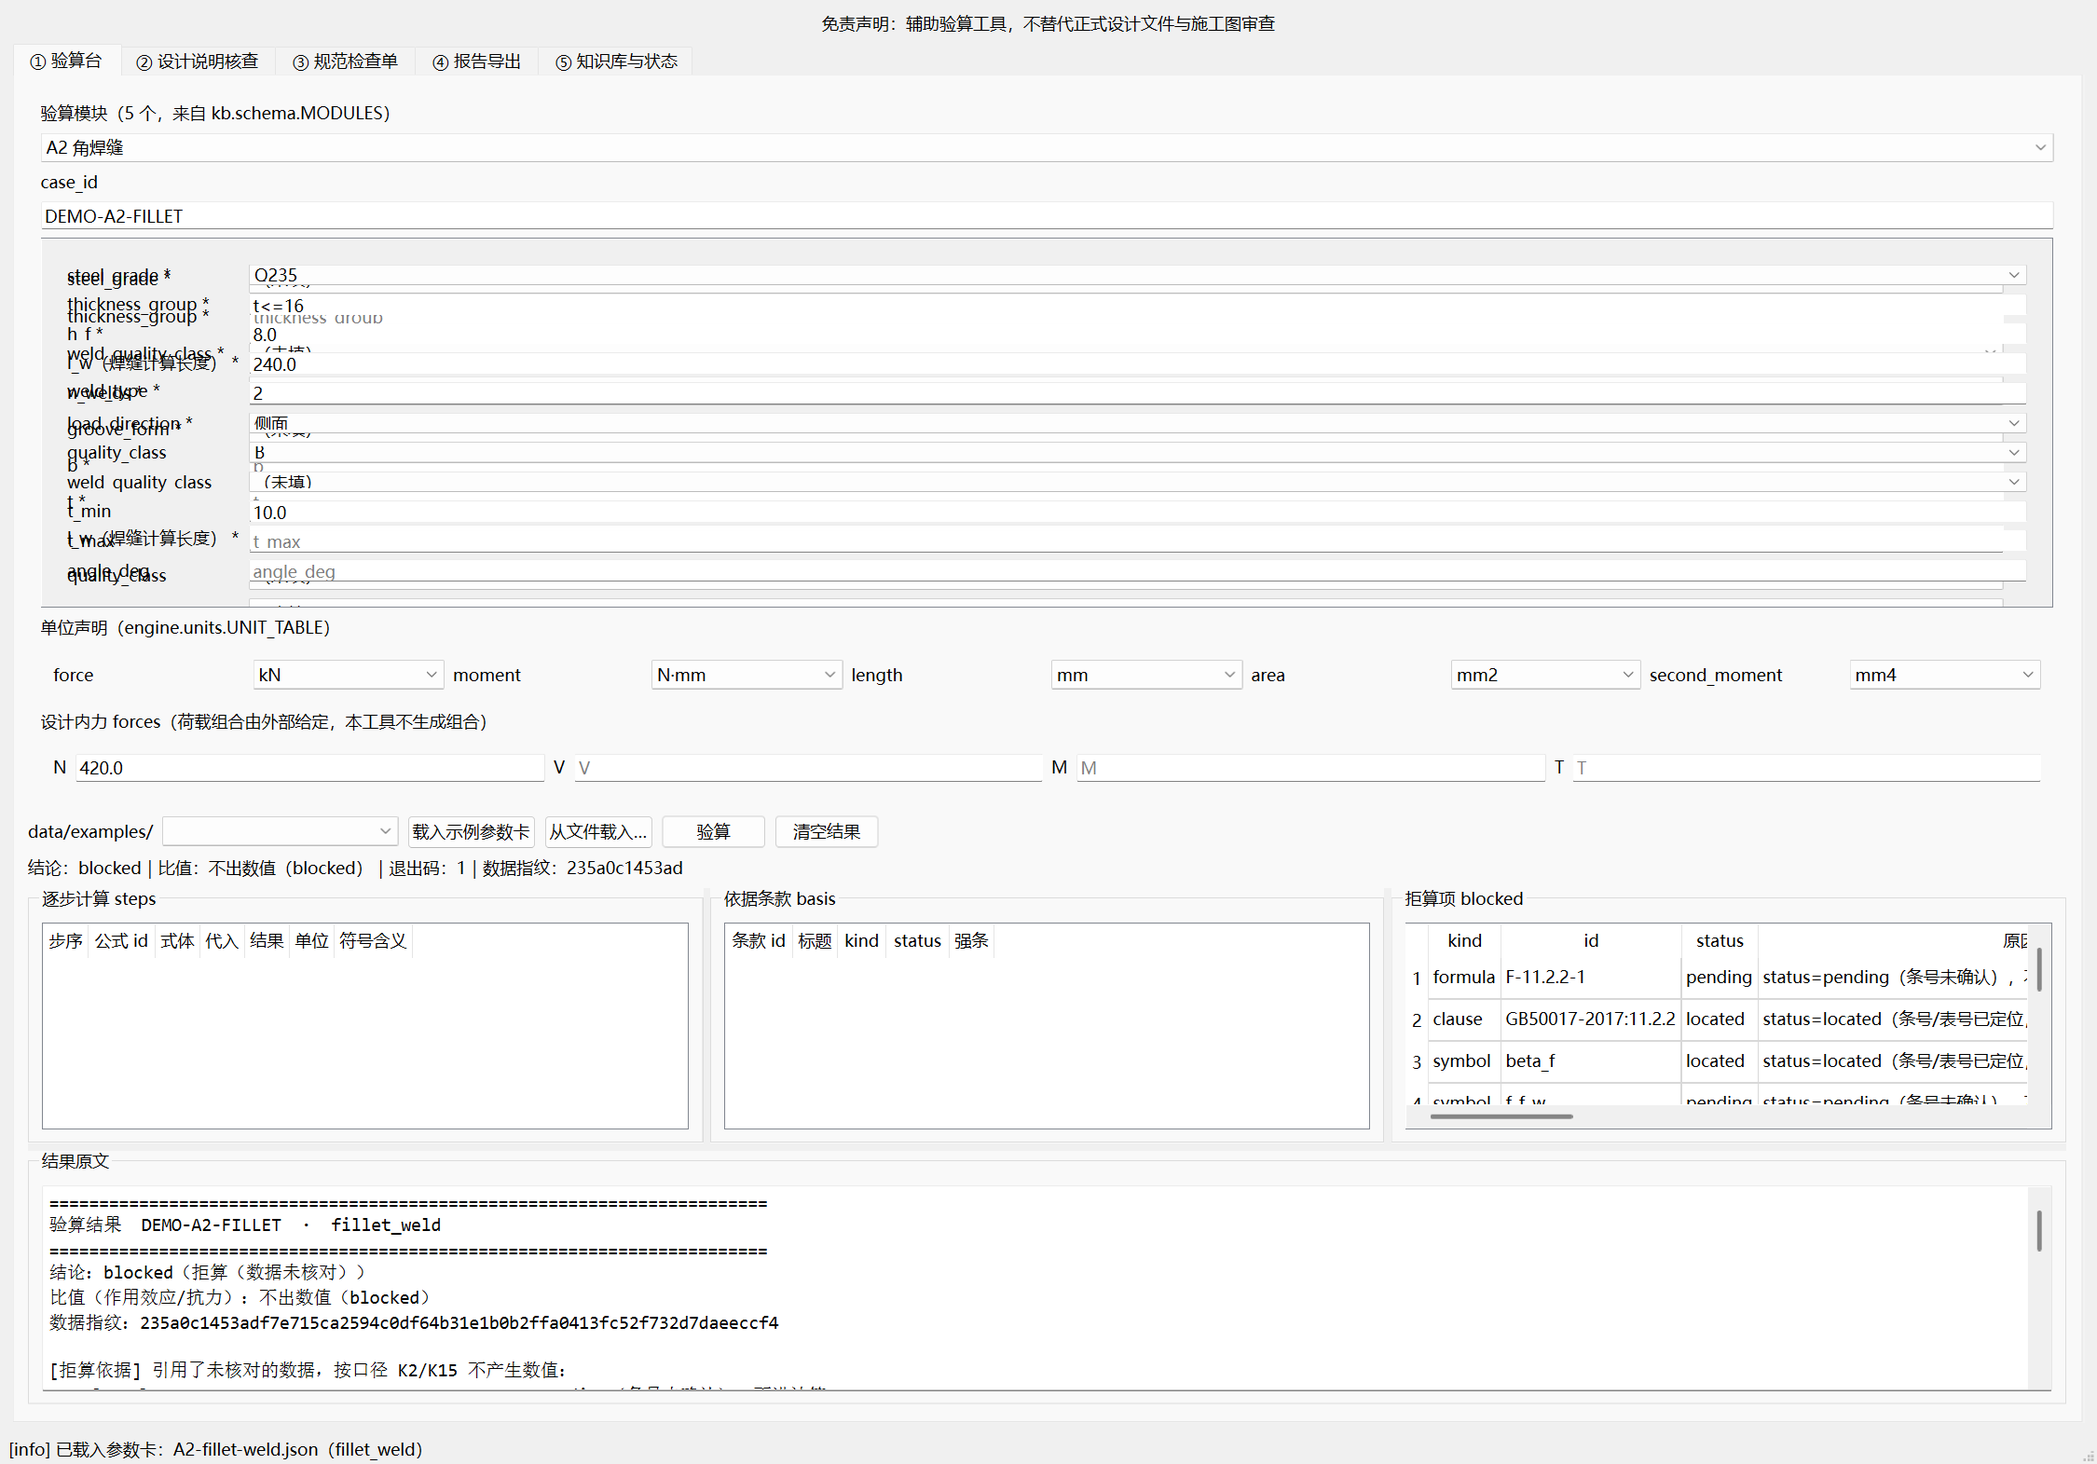
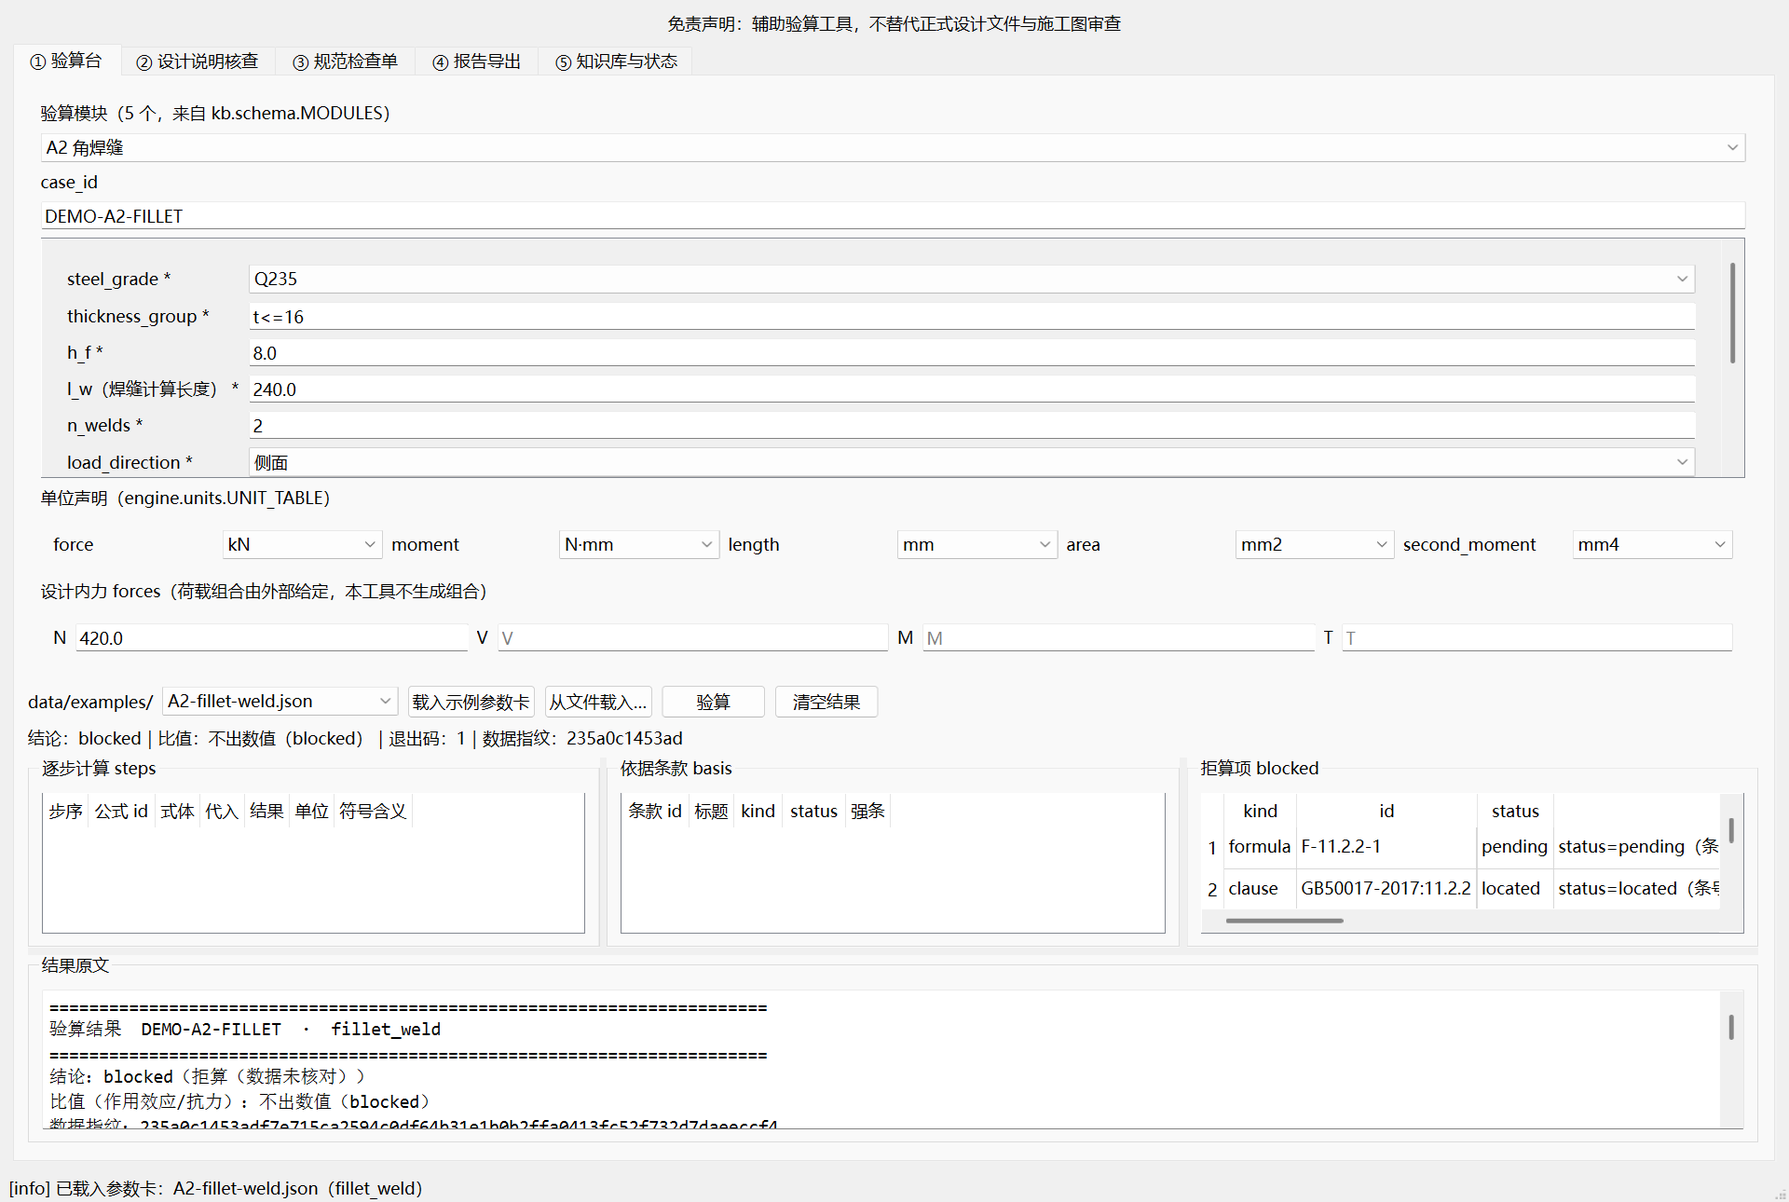
feat: 报告头写入依据规范 + 规则集 meta.review + CHANGELOG + GUI 抓帧时序修复（阶段三 任务 3/5，P1-1）
- src/sdc/report/body.py: 报告头新增 STANDARDS_LINE（依据规范 + 本次/下次复核日）；不写生成时间（K42）
- data/review/ruleset-review.json: 规则集复核元数据（standards + 每个知识文件的依据与依赖面 + declared_not_used）
- tests/test_clause_review.py: 6 用例守门（含负控已验证会报红），进 CI
- scripts/bundle_rules.py: data/review/ 明确不入包（含渠道 URL，K40/K42）
- src/sdc/gui/app.py: 新增 drain_events()，抓帧前多轮 processEvents + 冲刷 DeferredDelete —— 修 gui-verify-blocked.png 标签重影（P1-1），已重抓
- 新增 CHANGELOG.md；README 判定依据表补本次/下次复核与是否现行列、测试模块计数 25→26
- pyproject: 增加 Changelog URL 与 classifiers

diff --git a/tests/test_clause_review.py b/tests/test_clause_review.py
@@ -1,0 +1,129 @@
+"""规则集复核元数据守门（阶段三 任务 5）。
+
+字段规范 = ``10-6-scaffold-formwork-checker`` v2.0.0 的实测形态（``meta.review``：
+``reviewed_on`` / ``cycle_months`` / ``next_review_due`` / ``reviewer`` / ``standards[]``）。
+
+**本仓的落位差异（已登记）**：`data/<kind>/*.json` 是顶层 JSON **数组**，无法在同一文件里再承载
+文件级 ``meta.review``；因此复核元数据落在 ``data/review/ruleset-review.json``（loader 只扫
+``data/<kind>/`` 目录，不读这里，因此零判定影响），并在其中用 ``covered_files`` 覆盖每个知识文件。
+README「判定依据」表与报告头 ``STANDARDS_LINE`` 与之三处一致。
+
+6 个用例（scaffold 5 条 + 1 条报告头）：
+
+1. 元数据齐全；
+2. 日期可解析且 ``next_review_due > reviewed_on``，``cycle_months`` 与跨度相符；
+3. 每部标准 ``authority_url`` 非空且为 URL；
+4. 清单类一致性：``covered_files`` 覆盖全部知识文件，且每条引用的标准都在 ``standards`` 里；
+5. 「本版本不依赖」声明：``declared_not_used`` 每项必须有非空 ``not_used_by``，
+   且 ``used_by`` / ``not_used_by`` 里的模块都真实存在（依赖面吻合）；
+6. 报告头可见依据版本与引擎版本（任务 5 验收第 1 项），且不含 URL / 生成时间。
+
+任一判据被破坏必须报红 —— 负控记录见 plan/audits 的阶段三交接文档。
+"""
+
+import datetime
+import json
+from pathlib import Path
+
+import pytest
+
+REPO_ROOT = Path(__file__).resolve().parents[1]
+REVIEW_PATH = REPO_ROOT / "data" / "review" / "ruleset-review.json"
+KNOWLEDGE_DIRS = ("clauses", "tables", "formulas", "symbols", "rules", "checklist")
+REQUIRED_REVIEW_KEYS = ("reviewed_on", "cycle_months", "next_review_due", "reviewer",
+                        "standards", "covered_files", "declared_not_used")
+REQUIRED_STANDARD_KEYS = ("standard", "issued", "effective", "currency",
+                          "authority_url", "conclusion")
+
+
+def _review():
+    payload = json.loads(REVIEW_PATH.read_text(encoding="utf-8"))
+    return payload["meta"]["review"]
+
+
+def _date(text):
+    return datetime.datetime.strptime(text, "%Y-%m-%d").date()
+
+
+def _module_exists(dotted):
+    rel = dotted.replace(".", "/")
+    return any((REPO_ROOT / "src" / (rel + suffix)).exists()
+               for suffix in (".py", "/__init__.py"))
+
+
+def _knowledge_files():
+    found = []
+    for kind in KNOWLEDGE_DIRS:
+        for path in sorted((REPO_ROOT / "data" / kind).glob("*.json")):
+            found.append("%s/%s" % (kind, path.name))
+    return found
+
+
+def test_review_metadata_is_complete():
+    review = _review()
+    for key in REQUIRED_REVIEW_KEYS:
+        assert review.get(key) not in (None, "", [], {}), "meta.review 缺字段：%s" % key
+    assert isinstance(review["cycle_months"], int) and review["cycle_months"] > 0
+
+
+def test_review_dates_are_parsable_and_next_due_is_after_reviewed_on():
+    review = _review()
+    reviewed = _date(review["reviewed_on"])
+    due = _date(review["next_review_due"])
+    assert due > reviewed
+    months = (due.year - reviewed.year) * 12 + (due.month - reviewed.month)
+    assert abs(months - review["cycle_months"]) <= 1
+
+
+def test_every_standard_carries_authority_url():
+    for item in _review()["standards"]:
+        for key in REQUIRED_STANDARD_KEYS:
+            assert str(item.get(key) or "").strip(), (
+                "标准 %r 缺 %s" % (item.get("standard"), key))
+        for part in str(item["authority_url"]).split(";"):
+            if part.strip():
+                assert part.strip().startswith("http")
+
+
+def test_covered_files_match_the_knowledge_tree():
+    review = _review()
+    declared = set(review["covered_files"])
+    actual = set(_knowledge_files())
+    assert declared == actual, (
+        "covered_files 与 data/ 实际知识文件不一致：缺 %s / 多 %s"
+        % (sorted(actual - declared), sorted(declared - actual)))
+    known = {item["standard"] for item in review["standards"]}
+    for name, entry in review["covered_files"].items():
+        assert entry.get("standard"), "%s 未声明标准" % name
+        unknown = set(entry["standard"]) - known
+        assert not unknown, "%s 引用了未登记的标准：%s" % (name, sorted(unknown))
+
+
+def test_unused_declarations_and_real_modules():
+    review = _review()
+    for name, entry in review["covered_files"].items():
+        used_by = list(entry.get("used_by") or [])
+        not_used_by = list(entry.get("not_used_by") or [])
+        assert used_by or not_used_by, (
+            "%s 既没声明 used_by 也没声明 not_used_by" % name)
+        for module in used_by + not_used_by:
+            assert _module_exists(module), "%s 声明的模块不存在：%s" % (name, module)
+    assert review["declared_not_used"], "至少要有「本版本不依赖」的显式声明"
+    for item in review["declared_not_used"]:
+        assert item.get("not_used_by"), item.get("item")
+        for module in item["not_used_by"]:
+            assert _module_exists(module), "not_used_by 指向不存在的模块：%s" % module
+
+
+def test_report_header_shows_standards_and_engine_version():
+    from sdc import __version__
+    from sdc.report.body import STANDARDS_LINE, _header
+
+    head = "\n".join(_header("标题", "report", ["参数卡：x.json"]))
+    assert "引擎版本：%s" % __version__ in head
+    assert "依据规范" in head
+    for standard in ("GB 50017-2017", "GB 55006-2021", "JGJ 82-2011"):
+        assert standard in head
+    assert STANDARDS_LINE in head
+    # 交付物硬约束：不写 URL（0 外链）、不写生成时间（K42 无身份信息 + 逐字节一致）
+    assert "http" not in head and "生成时间" not in head

diff --git a/src/sdc/gui/app.py b/src/sdc/gui/app.py
@@ -85,11 +85,27 @@ def run(data_dir: Optional[str] = None, argv: Optional[Sequence[str]] = None) ->
     return int(app.exec())
 
 
+def drain_events(app, rounds: int = 3) -> None:
+    """多轮事件循环 + 显式冲刷 DeferredDelete（抓帧前必须调）。
+
+    实测缺陷（阶段二 P1-1）：只调一次 ``processEvents()`` 就 ``grab()`` 会抓到**标签重影**——
+    ``page_verify._rebuild()`` 用 ``deleteLater()`` 清旧控件，而 ``DeferredDelete`` 事件
+    要等事件循环才真正删除，一次 ``processEvents()`` 来不及，旧标签仍被绘制。
+    这里既跑多轮，也显式 ``sendPostedEvents(None, DeferredDelete)``，两处一起才稳。
+    """
+    from PySide6.QtCore import QCoreApplication, QEvent
+
+    for _ in range(rounds):
+        app.processEvents()
+        QCoreApplication.sendPostedEvents(None, QEvent.DeferredDelete)
+
+
 def capture(data_dir: Optional[str], out_path: str) -> int:
     """截一张主窗口帧（DoD 里的可演示物）。
 
     两个实测坑：offscreen 平台拿不到中文字体，抓帧要在 native QPA 上跑；
     `QPixmap.save(BytesIO)` 在 PySide6 6.6 不可用，所以存进 QBuffer 再落盘。
+    第三个坑见 :func:`drain_events`：抓帧前必须把挂起的事件（尤其 ``deleteLater()``）跑完。
     """
     from PySide6.QtCore import QBuffer, QIODevice
 
@@ -101,7 +117,7 @@ def capture(data_dir: Optional[str], out_path: str) -> int:
     app = QApplication.instance() or QApplication([])
     window = build_main_window(resolved)
     window.show()
-    app.processEvents()
+    drain_events(app)
     buffer = QBuffer()
     buffer.open(QIODevice.ReadWrite)
     window.grab().save(buffer, "PNG")

diff --git a/src/sdc/report/body.py b/src/sdc/report/body.py
@@ -20,6 +20,13 @@ TITLE_RESULT = "钢结构连接与构件验算书"
 TITLE_CHECK = "设计说明文本核查清单"
 TITLE_CHECKLIST = "GB 55006-2021 符合性检查单"
 
+# 报告头：依据版本（阶段三 任务 5）。文号/实施日期与 README「判定依据」表、
+# data/review/ruleset-review.json 的 meta.review 三处一致，由 tests/test_clause_review.py 守门。
+# 刻意不写「生成时间」：本仓交付物要求无身份信息 + 两次导出逐字节一致（K42）。
+STANDARDS_LINE = ("依据规范：GB 50017-2017（2018-07-01 实施）、"
+                  "GB 55006-2021（2022-01-01 实施）、JGJ 82-2011（2011-10-01 实施）；"
+                  "本次复核 2026-10-19，下次复核 2027-10-19")
+
 
 def _name(path: str) -> str:
     """只留文件名：绝对路径里带机器名与用户名，不进交付物（口径 K42）。"""
@@ -28,7 +35,7 @@ def _name(path: str) -> str:
 
 
 def _header(title: str, tool: str, extra: List[str]) -> List[str]:
-    out = [title, "导出命令：sdc %s；引擎版本：%s" % (tool, __version__)]
+    out = [title, "导出命令：sdc %s；引擎版本：%s" % (tool, __version__), STANDARDS_LINE]
     out.extend(line for line in extra if line)
     out.append("")
     return out

diff --git a/scripts/bundle_rules.py b/scripts/bundle_rules.py
@@ -24,7 +24,9 @@ DATA_SUBDIRS = ("clauses", "tables", "formulas", "symbols", "rules", "checklist"
                 "selfcheck", "examples", "synth")
 
 # 明确不入包的 data 成员
-DATA_EXCLUDED = ("README.md", "cases")
+# - `review/`：阶段三 任务 5 的规则集复核元数据（人审与守门用），不是运行必需数据，
+#   且内含权威渠道 URL —— 按 K40/K42 不进交付物。
+DATA_EXCLUDED = ("README.md", "cases", "review")
 
 # 任何深度都不得出现的路径成分（本项目自己的取证/计划/会话产物与本地环境目录）
 FORBIDDEN_ANYWHERE = (".git", ".tmp_verify", ".tmp_parse", ".venv", "venv", "plan",

diff --git a/README.md b/README.md
@@ -66,14 +66,17 @@ py -3.8 -X utf8 -m sdc run --module fillet_weld --case data/examples/A2-fillet-w
 
 ## 判定依据
 
-| 依据 | 版本 | 生效日期 | 最后复核 |
-| --- | --- | --- | --- |
-| GB 50017-2017《钢结构设计标准》 | 2017 版（替代 GB 50017-2003） | 2018-07-01 实施 | 2026-10-07 |
-| GB 55006-2021《钢结构通用规范》（全文强制） | 2021 版 | 2022-01-01 实施 | 2026-10-07 |
-| JGJ 82-2011《钢结构高强度螺栓连接技术规程》 | 2011 版（替代 JGJ 82-91） | 2011-10-01 实施 | 2026-10-07 |
-| 条款库 `data/clauses/`（GB50017 35 条 + GB55006 107 条 + JGJ82 19 条，三档 status） | 数据指纹 `235a0c14…` | 2026-10-06/07 入库 | 2026-10-07 |
-| 引擎与打包口径 K1–K46（唯一一份，见 [plan/06-决策记录.md](plan/06-决策记录.md)） | `v0.1.0` | 2026-10-07 | 2026-10-07 |
+| 依据 | 版本 | 生效日期 | 本次复核（下次复核） | 是否现行 |
+| --- | --- | --- | --- | --- |
+| GB 50017-2017《钢结构设计标准》 | 2017 版（替代 GB 50017-2003） | 2018-07-01 实施 | **2026-10-19（2027-10-19）** | 现行；4.3.2 等强条自 2022-01-01 起废止，本库引用的第 11/7 章计算条文不在其内 |
+| GB 55006-2021《钢结构通用规范》（全文强制） | 2021 版 | 2022-01-01 实施 | **2026-10-19（2027-10-19）** | 现行；住建部公告 2021 年第 69 号已直连核实 |
+| JGJ 82-2011《钢结构高强度螺栓连接技术规程》 | 2011 版（替代 JGJ 82-91） | 2011-10-01 实施 | **2026-10-19（2027-10-19）** | 现行；6 条强条已随 GB 55006-2021 废止（公告附件第 15 项） |
+| 条款库 `data/clauses/`（GB50017 35 条 + GB55006 107 条 + JGJ82 19 条，三档 status） | 数据指纹 `235a0c14…` | 2026-10-06/07 入库 | 2026-10-07 | — |
+| 引擎与打包口径 K1–K46（唯一一份，见 [plan/06-决策记录.md](plan/06-决策记录.md)） | `v0.1.0` | 2026-10-07 | 2026-10-07 | — |
 
+复核结论与权威出处以 [data/review/ruleset-review.json](data/review/ruleset-review.json) 的
+`meta.review` 为准（每个知识文件的依据与依赖面逐条登记），由 `tests/test_clause_review.py` 守门；
+报告头写入同一批依据（`STANDARDS_LINE`），**不写生成时间**（K42：无身份信息 + 两次导出逐字节一致）。
 条款库只登记「标准号 + 条号 + 要点转述 + 出处」，**不整条转载规范正文**（版权纪律）。
 用编造来源换取绿灯，是本项目明确不做的事。
 
@@ -86,7 +89,7 @@ py -3.8 -X utf8 -m sdc run --module fillet_weld --case data/examples/A2-fillet-w
   `sdc bench` 显式输出「分母 0，样本待补」，不虚报达标。
 - **10 条核查规则的依据条款全部 `located`**：可硬判 `abnormal` 的规则分母为 0。
 - **不做**行业标准 / 地方标准 / 国外规范；不做荷载组合生成与自动出图。
-- 仓库有 25 个测试模块（schema / 门控 / 引擎 / 解析 / 核查 / 基准 / 报告 / 界面契约 / 打包与守门 /
+- 仓库有 26 个测试模块（schema / 门控 / 引擎 / 解析 / 核查 / 基准 / 报告 / 界面契约 / 打包与守门 /
   CI 与脱敏守门）；CI 四矩阵里只有一个装 `gui` extras，其余矩阵的 GUI 用例声明式跳过。
 - 参数卡里 `src/sdc/kb` 之外的数值一律进不了计算路径；blocked 结果不含任何数值。
 - 导出的 docx 走「0 外链」硬门（连带拦下机器用户名与 home 路径），因此**不含任何 URL**
@@ -97,7 +100,7 @@ py -3.8 -X utf8 -m sdc run --module fillet_weld --case data/examples/A2-fillet-w
 > 仓库结构、CI 矩阵（3.8 基线 + 3.12 防版本差，一个矩阵装 gui）、条款库三档口径、
 > 打包红线与发布对账见 [DEVELOPMENT.md](DEVELOPMENT.md)；
 > 计划与逐条口径见 [plan/00-README总览.md](plan/00-README总览.md)，
-> 数据台账见 [data/README.md](data/README.md)。
+> 数据台账见 [data/README.md](data/README.md)，变更记录（含规则集版本）见 [CHANGELOG.md](CHANGELOG.md)。
 
 ## 版权与免责
 

diff --git a/CHANGELOG.md b/CHANGELOG.md
@@ -1,0 +1,52 @@
+# Changelog
+
+本项目的版本分两层：
+
+- **代码版本**（本文件）：修 bug、加功能、改交付形态
+- **规则集版本**：条款库 / 数值表 / 公式 / 符号 / 核查规则所依据的标准及其生效日期
+
+> 判定结果发生变化（或放弃解释器支持一类破坏性环境变更）时，**主版本号 +1**，
+> 并在发布说明中提示「历史报告需重跑」。
+
+## [Unreleased]
+
+### 新增
+
+- **报告头写入依据版本**：三类交付物（验算书 / 核查文本 / 检查单）头部新增
+  `依据规范：GB 50017-2017、GB 55006-2021、JGJ 82-2011` + 本次/下次复核日；
+  与「引擎版本」同一行组出现。**不写生成时间** —— 交付物要求无身份信息且两次导出逐字节一致（K42）。
+- **规则集复核元数据** `data/review/ruleset-review.json` 的 `meta.review`：复核日 / 周期 /
+  下次到期 / 复核人 / `standards[]`（含 `currency` 与 `authority_url`）/ 每个知识文件的
+  `standard` 与 `used_by` / `declared_not_used`（声明本版本不依赖的 extras）。
+- **守门测试** `tests/test_clause_review.py`：6 个用例（元数据齐全 / 日期与周期 / `authority_url` /
+  覆盖每个知识文件且标准已登记 / `not_used_by` 与真实模块依赖面吻合 / 报告头可见依据与引擎版本）。
+
+### 变更
+
+- `pyproject.toml`：`[project.urls]` 增加 `Changelog`；classifiers 补齐
+  Development Status / Intended Audience / Topic。
+- README「判定依据」表增加「本次复核（下次复核）」与「是否现行」两列，与
+  `meta.review` 一致。
+
+### 规则集
+
+- **无变更**。当前依据：
+  - GB 50017-2017《钢结构设计标准》（2018-07-01 实施）—— 现行；4.3.2 等强条自 2022-01-01 起废止
+  - GB 55006-2021《钢结构通用规范》（2022-01-01 实施）—— 现行；住建部公告 2021 年第 69 号已直连核实
+  - JGJ 82-2011《钢结构高强度螺栓连接技术规程》（2011-10-01 实施）—— 现行；6 条强条随 GB 55006-2021 废止
+- 本轮的改动**只加元数据与报告头**，不改任何条款 / 表值 / 公式 / 阈值，`data/` 里没有一条数据升 `verified`。
+
+### 是否需要重跑历史报告
+
+**否。** 判定结论未变（5 个模块对真实数据仍全部 `blocked`），交付物差异仅为报告头新增一行依据。
+
+## [0.1.0] - 2026-10-07
+
+首个发布版本：5 个连接与稳定验算模块 + 设计说明文本核查 + GB 55006-2021 全 8 章 107 条检查单 +
+docx 交付物 + PySide6 五页签界面；双 exe（`sdc-cli` / `sdc-gui`）与源码跑法。
+
+### 规则集
+
+- GB 50017-2017 / GB 55006-2021 / JGJ 82-2011（条款 161 条 + 数值表 13 张 + 公式 14 条 + 符号 36 项 +
+  规则 10 条 + 检查单 107 条，均挂渠道档；真实数据上一律 `blocked`，不猜数值）
+- 数据指纹 `235a0c14…`；条款库只登记「标准号 + 条号 + 要点转述 + 出处」，不转载正文
